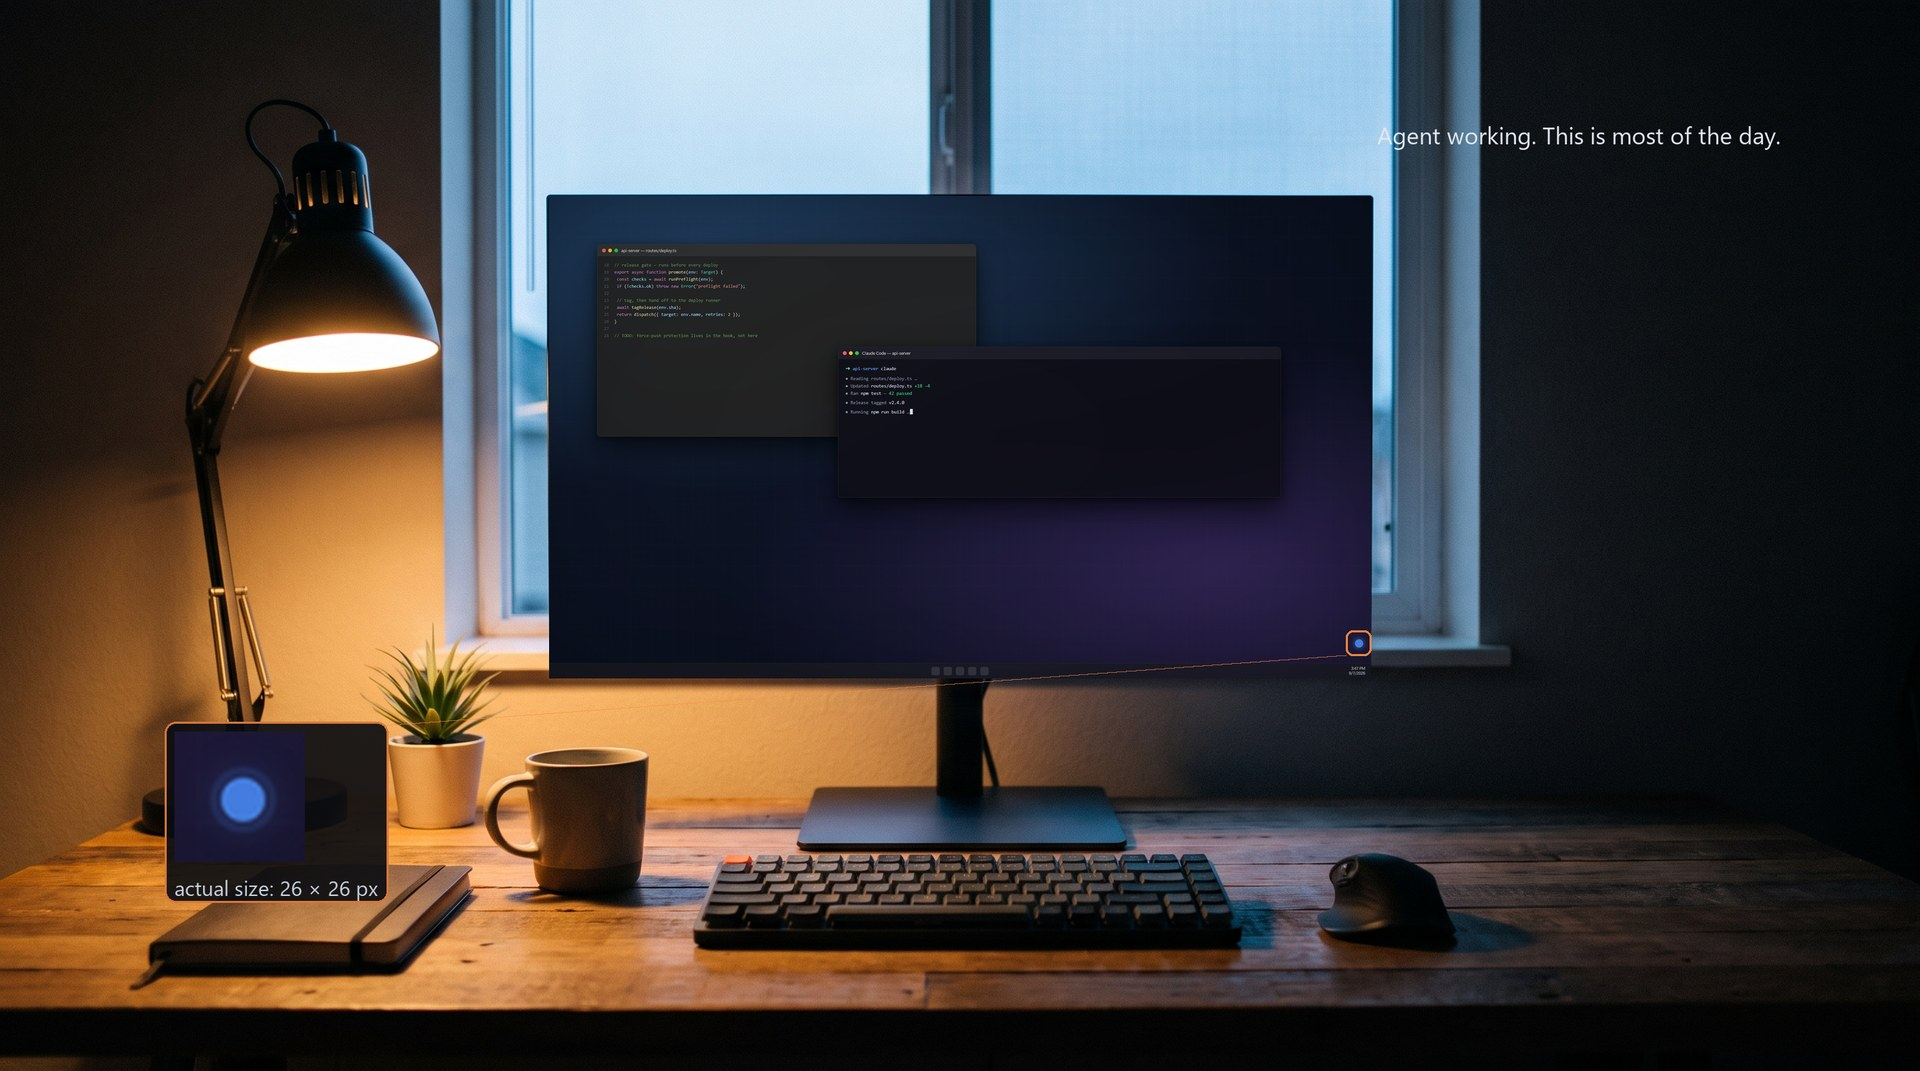
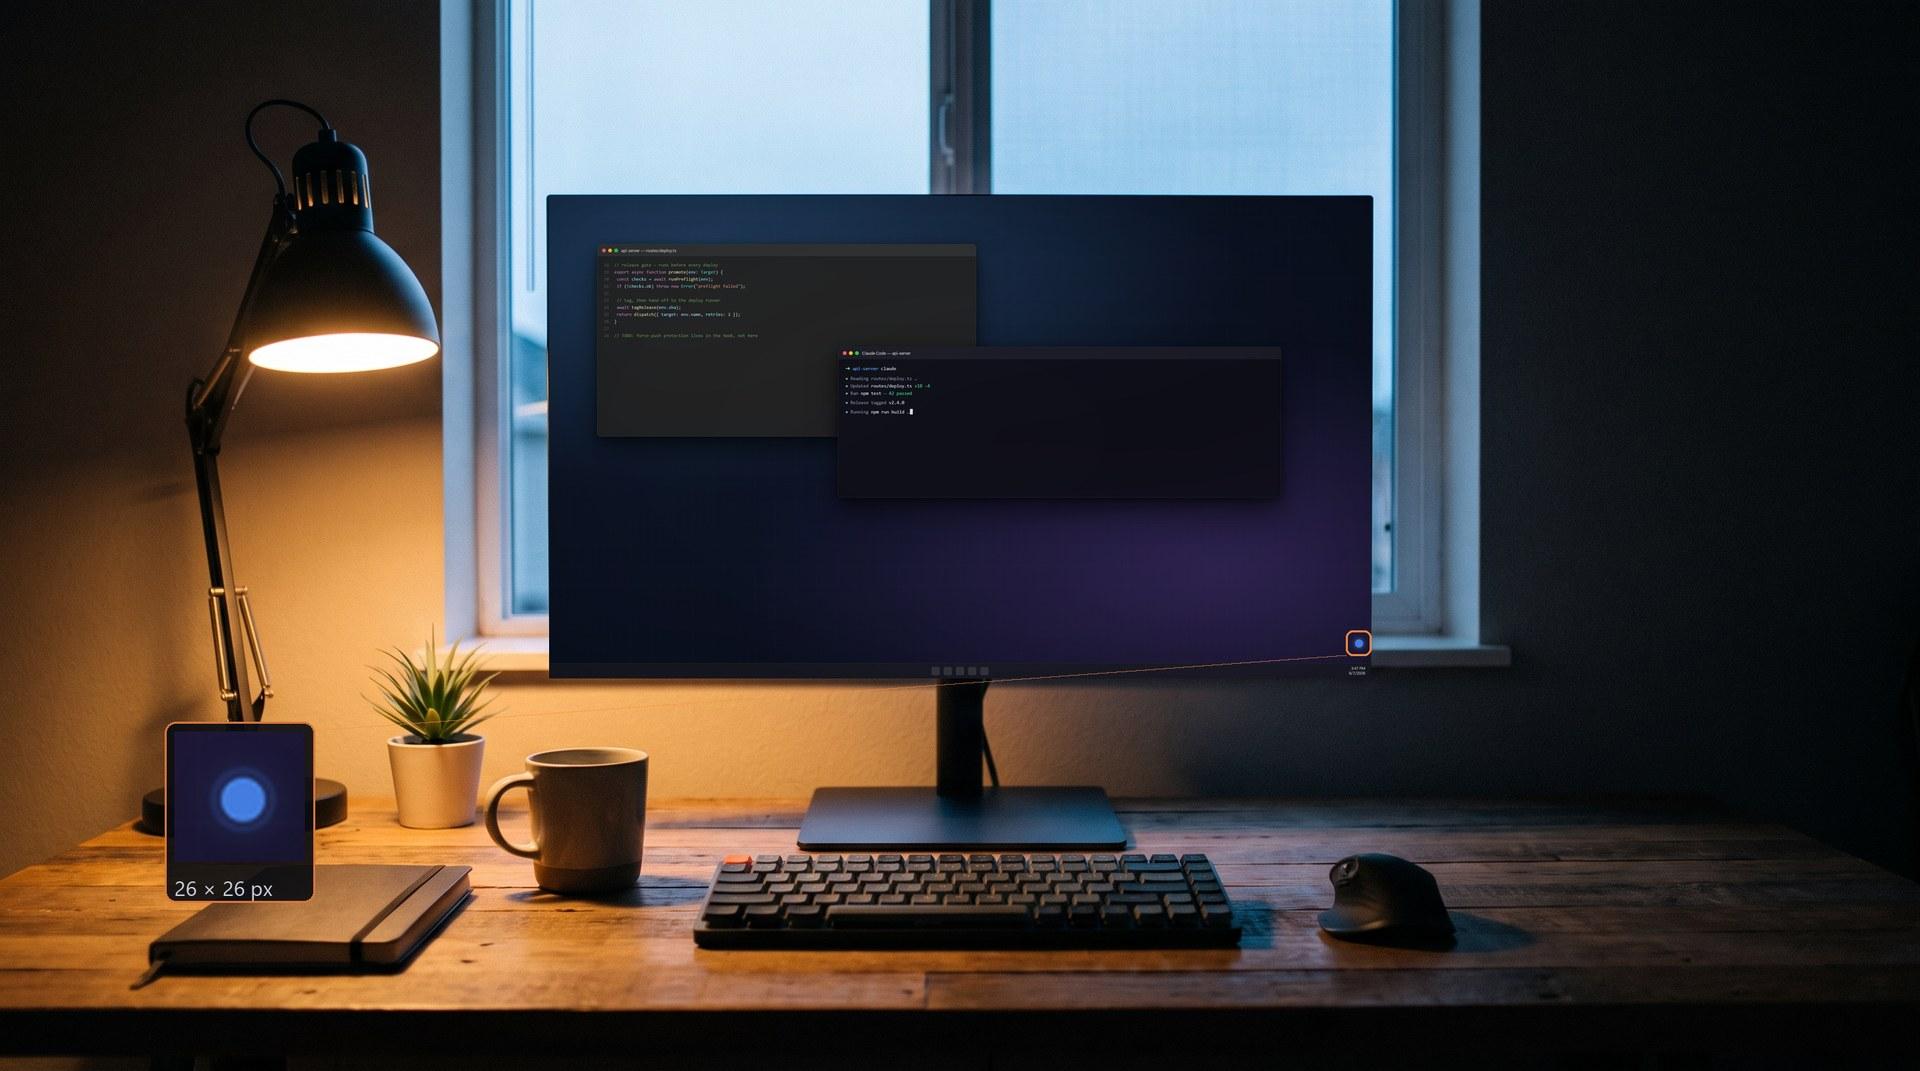
Link the site from the README

Changed region(s): [[0.0938, 0.6471, 0.2188, 0.8627], [0.7188, 0.1232, 0.9375, 0.1541]]

diff --git a/README.md b/README.md
@@ -12,7 +12,7 @@
 
 **Free · No account · No telemetry · No network calls**
 
-[**⬇ Download for Windows**](https://github.com/AdiN737/vigil/releases/latest) &nbsp;·&nbsp; [How it works](#how-it-works) &nbsp;·&nbsp; [Why it won't spam you](#why-it-doesnt-spam-you) &nbsp;·&nbsp; [Install](#install)
+[**⬇ Download for Windows**](https://github.com/AdiN737/vigil/releases/latest) &nbsp;·&nbsp; [vigilit.app](https://vigilit.app) &nbsp;·&nbsp; [How it works](#how-it-works) &nbsp;·&nbsp; [Why it won't spam you](#why-it-doesnt-spam-you) &nbsp;·&nbsp; [Install](#install)
 
 <br>
 
